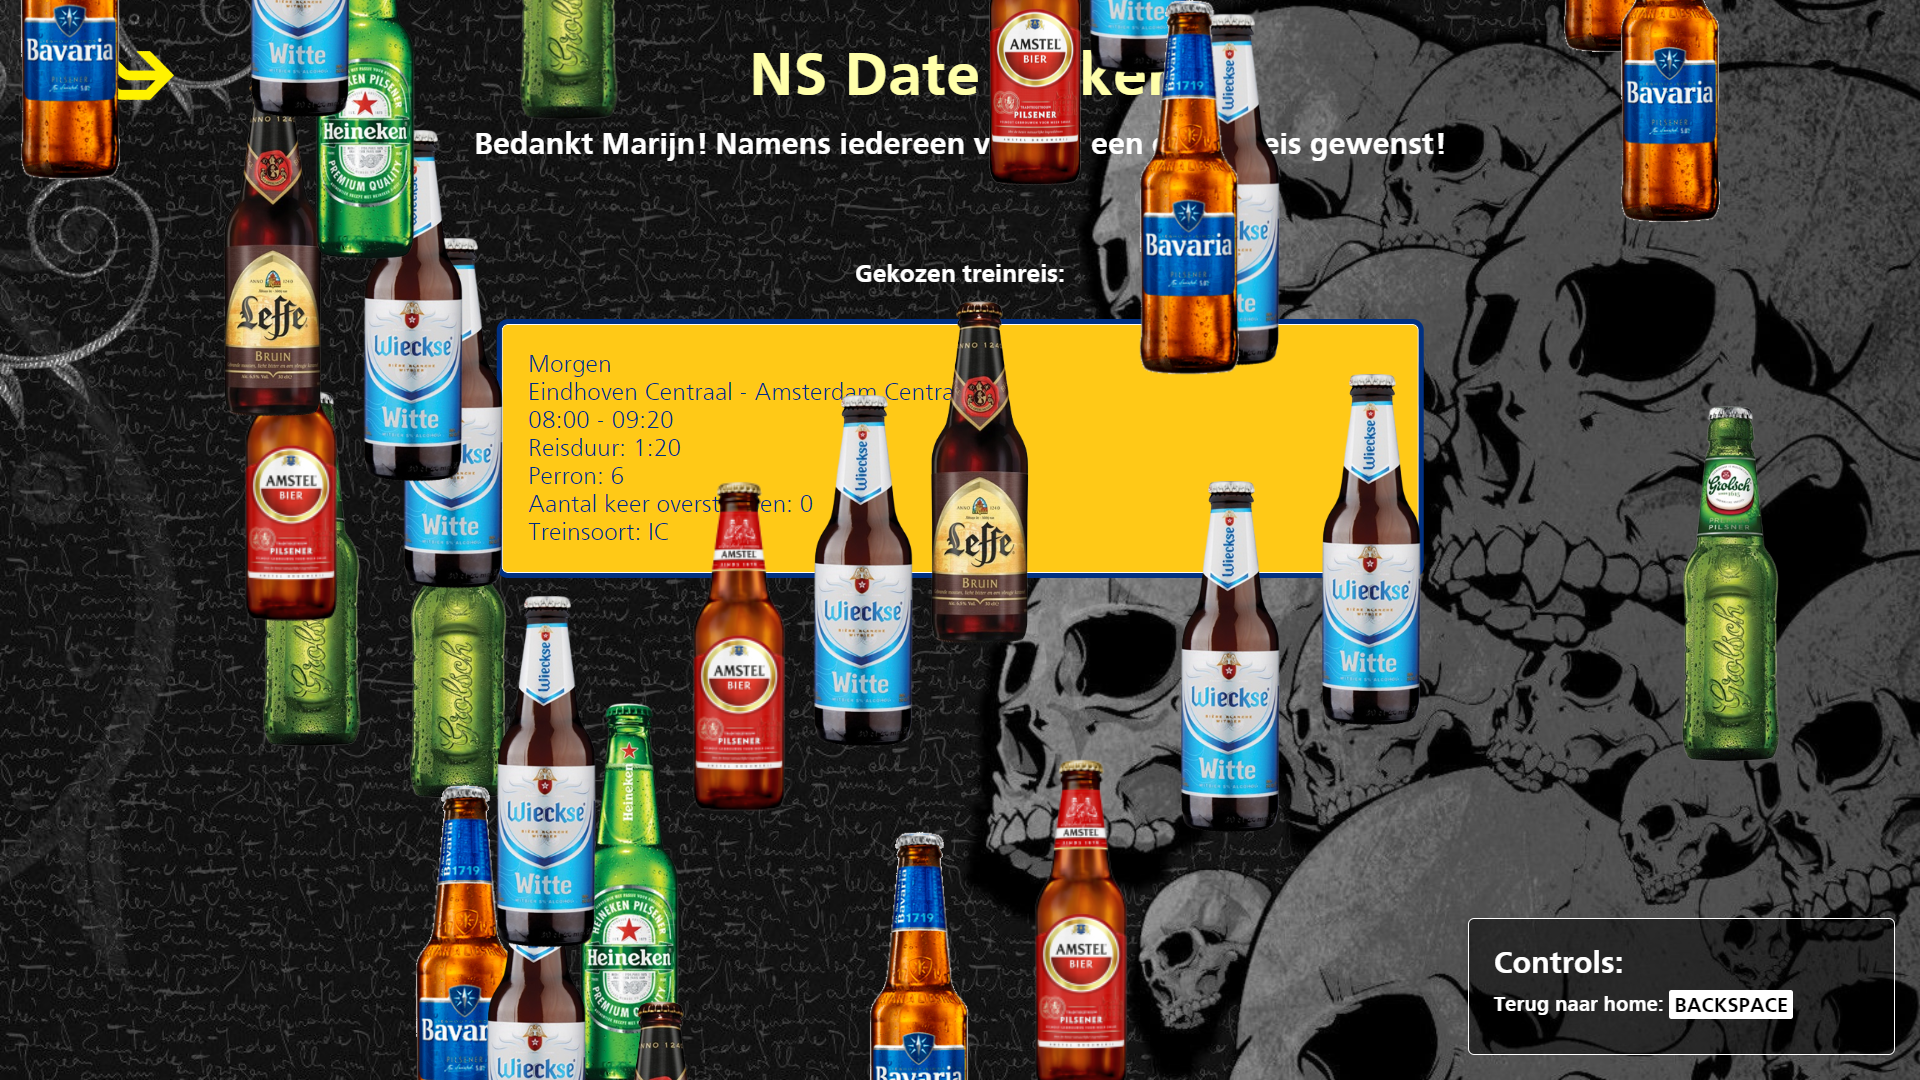
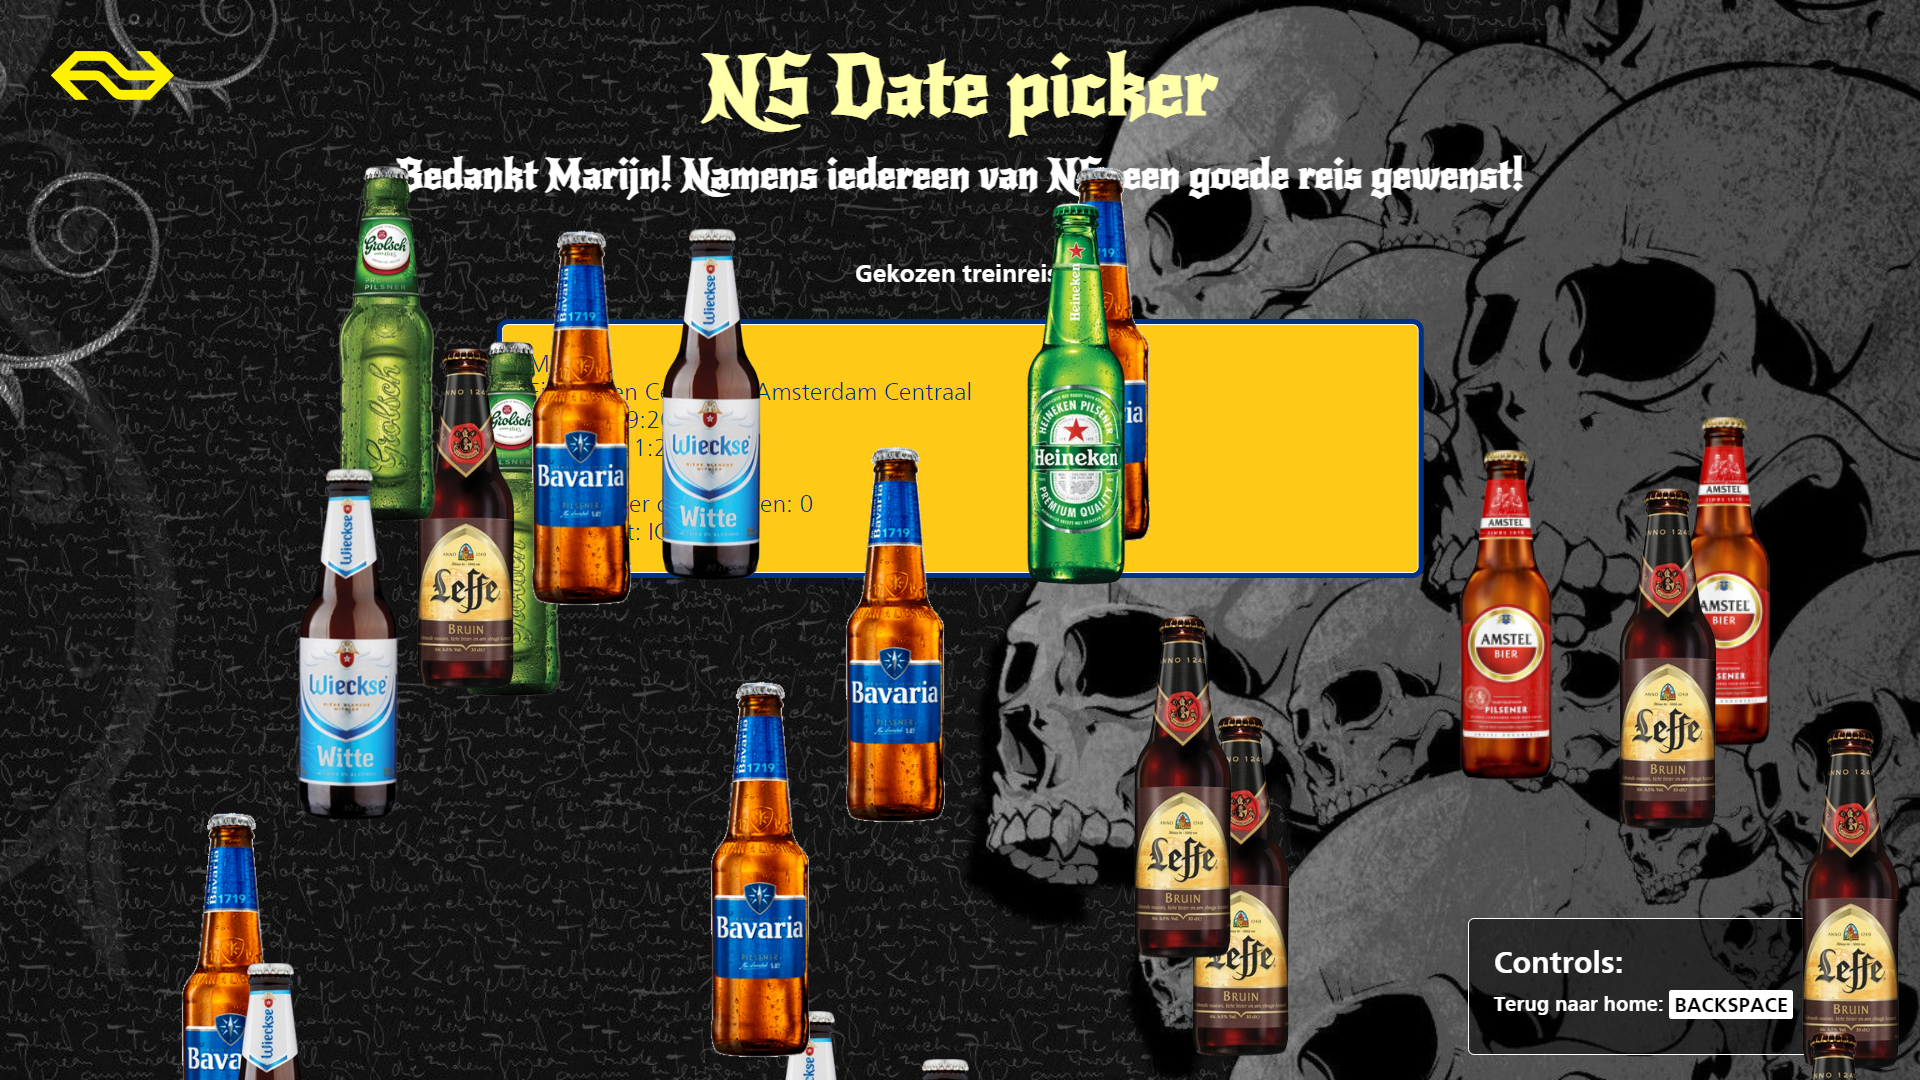
readme aangevuld

diff --git a/aangepaste_reis/aangepaste_reis.js b/aangepaste_reis/aangepaste_reis.js
@@ -5,22 +5,22 @@ let navigator_idx = 1;
 
 document.querySelector('.selectable[data-id="1"]').focus() // Default
 
-// window.addEventListener('mousedown',function(e) {
-//     if (isNaN(e.target.dataset.id) == false) { // If mouseclick targets on a selectable item;
-//         document.querySelector('.selectable[data-id="'+navigator_idx+'"]').classList.remove('selected');
-//         navigator_idx = e.target.dataset.id;
-//         document.querySelector('.selectable[data-id="'+navigator_idx+'"]').focus()
-//     }
-//     document.querySelector('.selectable[data-id="'+navigator_idx+'"]').classList.add('selected');
+window.addEventListener('mousedown',function(e) {
+    if (isNaN(e.target.dataset.id) == false) { // If mouseclick targets on a selectable item;
+        document.querySelector('.selectable[data-id="'+navigator_idx+'"]').classList.remove('selected');
+        navigator_idx = e.target.dataset.id;
+        document.querySelector('.selectable[data-id="'+navigator_idx+'"]').focus()
+    }
+    document.querySelector('.selectable[data-id="'+navigator_idx+'"]').classList.add('selected');
 
-//     if (isNaN(e.target.parentNode.parentNode.dataset.id) == false) { // If mouseclick targets on a selectable item;
-//         document.querySelector('.selectable[data-id="'+navigator_idx+'"]').classList.remove('selected');
-//         navigator_idx = e.target.parentNode.parentNode.dataset.id;
-//         document.querySelector('.selectable[data-id="'+navigator_idx+'"]').focus()
-//         kies_treinoptie()
-//     }
-//     document.querySelector('.selectable[data-id="'+navigator_idx+'"]').classList.add('selected');
-// })
+    if (isNaN(e.target.parentNode.parentNode.dataset.id) == false) { // If mouseclick targets on a selectable item;
+        document.querySelector('.selectable[data-id="'+navigator_idx+'"]').classList.remove('selected');
+        navigator_idx = e.target.parentNode.parentNode.dataset.id;
+        document.querySelector('.selectable[data-id="'+navigator_idx+'"]').focus()
+        kies_treinoptie()
+    }
+    document.querySelector('.selectable[data-id="'+navigator_idx+'"]').classList.add('selected');
+})
 
 function kies_treinoptie() {
     let final_datum = document.querySelector('#datum').value;

diff --git a/bedankt/bedankt.js b/bedankt/bedankt.js
@@ -31,8 +31,10 @@ const bier_images = ['amstel_bier_img','bavaria_bier_img','grolsch_bier_img','he
 class BierBottle {
     constructor() {
         this.position_X = Math.floor(Math.random()*(window.innerWidth-80))
-        this.position_Y = Math.floor(Math.random()*-2500 - 500);
-        this.valsnelheid = Math.floor(Math.random() * (10 - 7 + 1) + 7) // 10 is max speed, 5 is min speed
+        this.position_Y = Math.floor(Math.random()*-2000) - 1000;
+        this.min_speed = 7;
+        this.max_speed = 10;
+        this.valsnelheid = Math.floor(Math.random() * (this.max_speed - this.min_speed + 1) + this.min_speed);
     }
 }
 

diff --git a/basics.css b/basics.css
@@ -53,7 +53,7 @@ body::-webkit-scrollbar-thumb {
 }
 
 h1 {
-    font-size: 3em;
+    font-size: 4em;
     color: #ffa;
     text-align: center;
     position: absolute;
@@ -61,17 +61,19 @@ h1 {
     left: 50%;
     width: 100%;
     transform: translateX(-50%);
+    font-family: 'New Rocker', cursive;
 }
 
 .subtitle {
-    font-size: 1.5em;
+    font-size: 2em;
     color: white;
     text-align: center;
     position: absolute;
-    top: 100px;
+    top: 120px;
     left: 50%;
     width: 100%;
     transform: translateX(-50%);
+    font-family: 'New Rocker', cursive;
 }
 
 .selectable {

diff --git a/van_huis_naar_werk/van_huis_naar_werk.html b/van_huis_naar_werk/van_huis_naar_werk.html
@@ -4,6 +4,7 @@
 		<meta charset="utf-8">
 		<meta name="viewport" content="width=device-width, initial-scale=1.0">
         <link href="https://fonts.googleapis.com/css2?family=Open+Sans&display=swap" rel="stylesheet">
+        <link href="https://fonts.googleapis.com/css2?family=Montserrat:wght@500&family=New+Rocker&family=Open+Sans&display=swap" rel="stylesheet">
         <link rel="stylesheet" href="../basics.css">
         <link rel="stylesheet" href="van_huis_naar_werk.css">
     </head>

diff --git a/van_werk_naar_huis/van_werk_naar_huis.html b/van_werk_naar_huis/van_werk_naar_huis.html
@@ -4,6 +4,7 @@
 		<meta charset="utf-8">
 		<meta name="viewport" content="width=device-width, initial-scale=1.0">
         <link href="https://fonts.googleapis.com/css2?family=Open+Sans&display=swap" rel="stylesheet">
+        <link href="https://fonts.googleapis.com/css2?family=Montserrat:wght@500&family=New+Rocker&family=Open+Sans&display=swap" rel="stylesheet">
         <link rel="stylesheet" href="../basics.css">
         <link rel="stylesheet" href="van_werk_naar_huis.css">
     </head>

diff --git a/aangepaste_reis/aangepaste_reis.html b/aangepaste_reis/aangepaste_reis.html
@@ -4,6 +4,7 @@
 		<meta charset="utf-8">
 		<meta name="viewport" content="width=device-width, initial-scale=1.0">
         <link href="https://fonts.googleapis.com/css2?family=Open+Sans&display=swap" rel="stylesheet">
+        <link href="https://fonts.googleapis.com/css2?family=Montserrat:wght@500&family=New+Rocker&family=Open+Sans&display=swap" rel="stylesheet">
         <link rel="stylesheet" href="../basics.css">
         <link rel="stylesheet" href="aangepaste_reis.css">
     </head>

diff --git a/bedankt/bedankt.html b/bedankt/bedankt.html
@@ -4,6 +4,7 @@
 		<meta charset="utf-8">
 		<meta name="viewport" content="width=device-width, initial-scale=1.0">
         <link href="https://fonts.googleapis.com/css2?family=Open+Sans&display=swap" rel="stylesheet">
+        <link href="https://fonts.googleapis.com/css2?family=Montserrat:wght@500&family=New+Rocker&family=Open+Sans&display=swap" rel="stylesheet">
         <link rel="stylesheet" href="../basics.css">
         <link rel="stylesheet" href="bedankt.css">
     </head>

diff --git a/index.html b/index.html
@@ -4,6 +4,7 @@
 		<meta charset="utf-8">
 		<meta name="viewport" content="width=device-width, initial-scale=1.0">
         <link href="https://fonts.googleapis.com/css2?family=Open+Sans&display=swap" rel="stylesheet">
+        <link href="https://fonts.googleapis.com/css2?family=Montserrat:wght@500&family=New+Rocker&family=Open+Sans&display=swap" rel="stylesheet">
         <link rel="stylesheet" href="basics.css">
         <link rel="stylesheet" href="style.css">
     </head>

diff --git a/README.md b/README.md
@@ -1,8 +1,18 @@
 # Date picker voor Marijn Meijles
-Dit project bestaat uit een interactieve toepassing die speciaal is ontworpen en ontwikkeld voor Marijn Meijles. Het betreft een date picker waarmee Marijn van tevoren kan aangeven welke trein hij wil nemen zodat er iemand is om hem te helpen met zijn rolstoel. Bij dit project is speciaal gelet op de beperkingen én interesses van Marijn. Bij dit project is enkel gebruikgemaakt van HTML, CSS en JavaScript.
+Dit project bestaat uit een interactieve toepassing die speciaal is ontworpen en ontwikkeld voor Marijn Meijles. Het betreft een date picker waarmee Marijn van tevoren kan aangeven welke trein hij wil nemen zodat er iemand is om hem te helpen met zijn rolstoel. Bij dit project is speciaal gelet op de beperkingen én interesses van Marijn. Bij dit project is enkel gebruikgemaakt van HTML, CSS en JavaScript. Er wordt, omdat het project slechts een prototype betreft, geen echte data opgehaald van de NS.
 
-## Wie is Marijn?
-text
+## User needs
+### Wie is Marijn?
+Marijn Meijles woont in Eindhoven, werkt in Amsterdam en kan worden gezien als een echte nerd. Hij weet alles van technologie en developen en gebruikt hiervoor zijn favoriete teksteditor VIM. Deze teksteditor vindt Marijn prettig om op zijn macbook te gebruiken omdat er bij deze veel shortcuts en dus minder handelingen nodig zijn tijdens het developen. Hier heeft Marijn behoefte aan omdat hij is geboren met een motorische stoornis en moeite heeft met fijne motoriek. Hij kan maar één hand tegelijk gebruiken (vandaar dat hij sticky keys gebruikt), en is afhankelijk van zijn toetsenbord en zijn trackpad. Verder heeft Marijn moeite om zich verstaanbaar te maken en zit hij in een rolstoel.
+
+Zijn interesses zijn bier drinken en als een echte nerd boeken lezen. Ook houdt hij erg van dark-mode in de stijl van Heavy Metal.
+
+### Over het product
+Het product dat ik voor Marijn gemaakt heb is een NS date picker. Hiermee kan hij aangeven welke trein hij wil nemen wanneer hij gaat reizen. Dit moet hij altijd ruim van tevoren doorgeven zodat er iemand van de NS is om hem te helpen met zijn rolstoel. Als hij vroeg in de ochtend naar zijn werk reist, moet hij dit de dag van tevoren al regelen. Wanneer hij op werk zit en van plan is weer naar huis te gaan, wil hij uiteraard zo snel mogelijk weer thuis zijn. Dit kan pas op zijn vroegst een uur van tevoren geregeld worden. Als hij een andere aangepaste reis wilt maken, hangt het meer af van het moment waarop Marijn de reis boekt en van de duur van de reis.
+
+Mijn gemaakte date picker is volledig via het toetsenbord te bedienen is. Doordat Marijn bekend is met VIM, had hij ook de voorkeur dat het product met de hjkl toetsen te bedienen is (en niet met de tab-toets die hij nooit gebruikt).
+
+Zijn wens voor een date picker komt voort uit het feit dat de website van de NS dusdanig ontworpen is dat hij het niet prettig vindt om deze te gebruiken.
 
 ## Verslaglegging van de tests
 ### Eerste testmoment
@@ -20,7 +30,7 @@ Op donderdag 21 april hadden wij de eerste ontmoeting met Marijn vanuit Eindhove
 ##### Over hoe Marijn interacteert met een computer
 - Marijn gebruikt vooral toetsen die dicht bij elkaar staan. Het woord 'ALS' is bijvoorbeeld lastig om te typen omdat de letter A helemaal links van het toetsenbord is, de L helemaal rechts en de S weer helemaal links.
 - Marijn geeft aan nooit gebruik te maken van de tab-toets.
-- In plaats van de pijltjestietsen gebruikt Marijn de H (naar links), J (naar beneden), K (naar boven) en L (naar rechts) om te bewegen (de controls te bedienen).
+- In plaats van de pijltjestoetsen gebruikt Marijn de H (naar links), J (naar beneden), K (naar boven) en L (naar rechts) om te bewegen (de controls te bedienen).
 - De pijltjestoetsen en de spatiebalk gebruikt Marijn voornamelijk om te scrollen.
 - Marijn kan zowel een toetsenbord als een trackpad gebruiken.
 - Wanneer Marijn zijn toetsenbord gebruikt, kijkt hij naar zijn toetsenbord en niet naar het scherm.
@@ -90,14 +100,14 @@ Verder kwamen wij studenten erachter dat Marijn het helemaal leuk vind om bij ie
 
 
 ## Conclusie manier van testen
-conclusie...
+conclusie
 
 ## Exclusive Design Principles
 ### Study situation
-
+In het kader van study situation vond ik het erg belangrijk om een product te maken waarbij Marijn in zo min mogelijk handelingen zijn treinreis van A naar B kan aangeven. Doordat Marijn vaak dezelfde treinreis neemt, namelijk van Eindhoven naar Amsterdam en weer terug, heb ik ervoor gekozen om deze treinreizen in één directe handeling op het scherm te tonen. In het kader van gebruikersinteractie heb ik de website volledig toegankelijk gemaakt met het toetsenbord, en in zijn specifieke situatie met de J- en de K-toets (afkomstig van VIM). Hierbij is het ook van belang dat Marijn het product gemakkelijk met één hand tegelijk kan bedienen.
 
 ### Prioritise identity
-
+Dit onderwerp valt naar mijn idee een beetje samen met add nonsense. Het doel van dit onderwerp is dat je aan de date picker echt goed kan zien voor wie het is gemaakt en dat je meteen doorkrijgt welke interesses deze persoon heeft. Marijn houdt bijvoorbeeld van een dark-mode stijl en van heavy metal. Ook het font dat voor de titel en subtitel gebruikt is, draagt bij aan de wat duistere stijl waar Marijn van houdt.
 
 ### Ignore conventions
 Bij het maken van websites moet er normaal gesproken rekening gehouden worden met allerlei verschillende groepen gebruikers. Hierbij hoor je je te houden aan een aantal conventies, waardoor zoveel mogelijk mensen jouw website zonder problemen kunnen gebruiken.
@@ -107,7 +117,9 @@ Doordat je hier slechts voor één specifiek persoon een website ontwikkelt, hoe
 
 - Doordat Marijn deze toepassing altijd op zijn laptop op een groot scherm gebruikt, is het niet nodig om de website responsive te maken voor kleinere schermen.
 
-- Dit onderwerp valt een beetje samen met add nonsense, maar zoals ik al eerder noemde, vindt Marijn het erg leuk om bugs op te sporen. Daarom heb ik expres een zogenaamde bug 'verstopt' (wel makkelijk te vinden) bij de pagina 'aangepaste reis'. Bij 'normale' gebruikers is het een goede gewoonte om gewoon een duidelijke foutmelding te geven.
+- Ook dit onderwerp valt een beetje samen met add nonsense, maar zoals ik al eerder noemde, vindt Marijn het erg leuk om bugs op te sporen. Daarom heb ik expres een zogenaamde bug 'verstopt' (wel makkelijk te vinden) bij de pagina 'aangepaste reis'. Bij 'normale' gebruikers is het een goede gewoonte om gewoon een duidelijke foutmelding te geven.
+
+Verder vond ik het voor Marijn niet echt noodzakelijk om veel andere aanpassingen te maken, omdat Marijn zelf ook erg veel weet van websites.
 
 ### Add nonsense 
 Ik had eerst het idee om een animatie van een rijdende trein te laten afspelen op het moment dat Marijn een reisoptie heeft gekozen. Later dacht ik dat dit wellicht toch iets te weinig met de interesses van Marijn te maken had en ook een beetje kinderachtig was.
